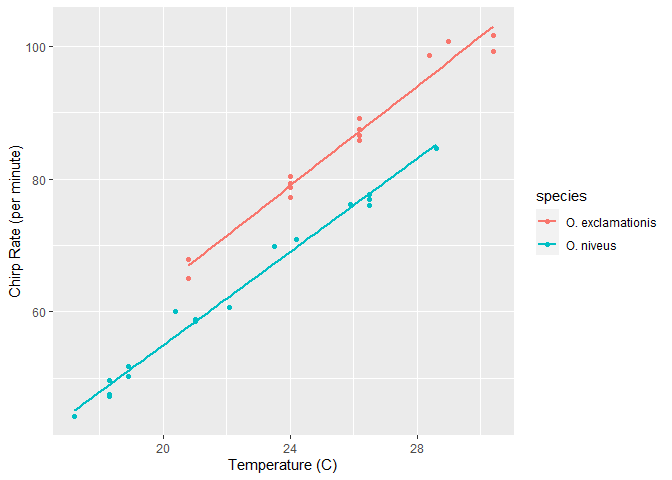
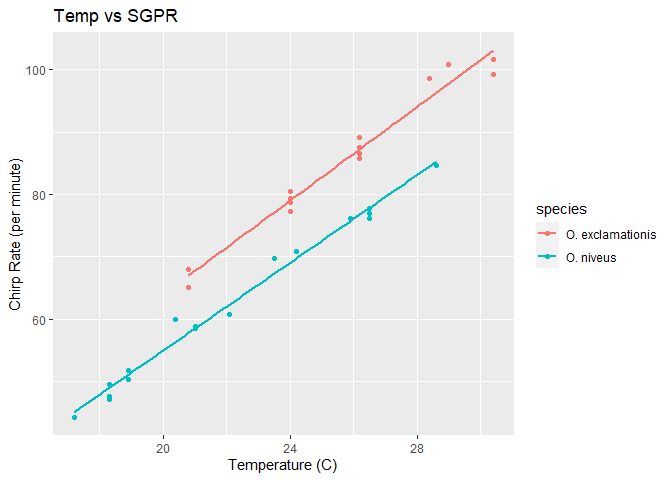
Updt 2.05.2022

diff --git a/0. Clases/03.-Fundamentos-de-modelamiento-en-R.md b/0. Clases/03.-Fundamentos-de-modelamiento-en-R.md
@@ -13,12 +13,12 @@ library(modeldata)
 library(tidyverse)
 ```
 
-    ## -- Attaching packages --------------------------------------- tidyverse 1.3.0 --
+    ## -- Attaching packages --------------------------------------- tidyverse 1.3.1 --
 
     ## v ggplot2 3.3.5     v purrr   0.3.4
-    ## v tibble  3.1.2     v dplyr   1.0.7
-    ## v tidyr   1.1.3     v stringr 1.4.0
-    ## v readr   1.3.1     v forcats 0.5.0
+    ## v tibble  3.1.6     v dplyr   1.0.8
+    ## v tidyr   1.2.0     v stringr 1.4.0
+    ## v readr   2.1.2     v forcats 0.5.1
 
     ## -- Conflicts ------------------------------------------ tidyverse_conflicts() --
     ## x dplyr::filter() masks stats::filter()
@@ -35,10 +35,9 @@ datos:
 ggplot(crickets, aes(x = temp, y = rate, col = species)) + 
   geom_point() + 
   geom_smooth(method = lm, se = FALSE) + 
-  labs(x = "Temperature (C)", y = "Chirp Rate (per minute)")
+  labs(x = "Temperature (C)", y = "Chirp Rate (per minute)",
+       title = "Temp vs SGPR" )
 ```
-
-    ## `geom_smooth()` using formula 'y ~ x'
 
 ![](03.-Fundamentos-de-modelamiento-en-R_files/figure-gfm/unnamed-chunk-2-1.png)<!-- -->
 
@@ -352,7 +351,7 @@ para nuestro modelo).
 ### 2.1 ¿Cómo integramos los modelos con tidyverse?
 
 Siguiendo con la base de datos de “grillos”, utilizaremos la función
-group\_nest() del paquete dplyr:
+group_nest() del paquete dplyr:
 
 ``` r
 Separar_por_especie <- 
